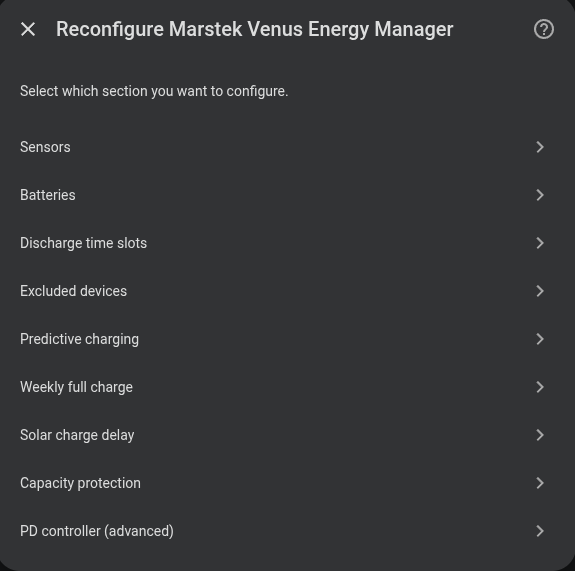
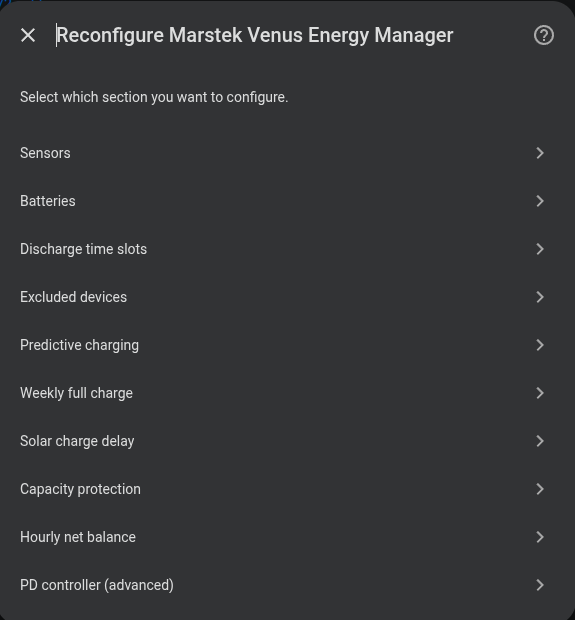
Deployed ad95a9f with MkDocs version: 1.6.1

diff --git a/configuration/advanced/index.html b/configuration/advanced/index.html
@@ -966,6 +966,17 @@
 </li>
       
         <li class="md-nav__item">
+  <a href="#hourly-net-balance" class="md-nav__link">
+    <span class="md-ellipsis">
+      
+        Hourly net balance
+      
+    </span>
+  </a>
+  
+</li>
+      
+        <li class="md-nav__item">
   <a href="#advanced-pd-controller" class="md-nav__link">
     <span class="md-ellipsis">
       
@@ -1536,6 +1547,17 @@
 </li>
       
         <li class="md-nav__item">
+  <a href="#hourly-net-balance" class="md-nav__link">
+    <span class="md-ellipsis">
+      
+        Hourly net balance
+      
+    </span>
+  </a>
+  
+</li>
+      
+        <li class="md-nav__item">
   <a href="#advanced-pd-controller" class="md-nav__link">
     <span class="md-ellipsis">
       
@@ -1572,7 +1594,7 @@
 
 
 <h1 id="advanced-options">Advanced options<a class="headerlink" href="#advanced-options" title="Permanent link">&para;</a></h1>
-<p>After configuring predictive charging, the wizard offers four additional optional steps that adjust the integration's behaviour in specific situations.</p>
+<p>After configuring predictive charging, the wizard offers five additional optional steps that adjust the integration's behaviour in specific situations.</p>
 <hr />
 <h2 id="weekly-full-charge">Weekly full charge<a class="headerlink" href="#weekly-full-charge" title="Permanent link">&para;</a></h2>
 <p>Forces a <strong>100% charge once a week</strong> for cell balancing. You only need to select the day of the week.</p>
@@ -1634,6 +1656,43 @@
 </table>
 <p>See <a href="../../features/peak-shaving/">Peak shaving</a> for how it works.</p>
 <p><img alt="Capacity protection configuration" src="../../assets/screenshots/configuration/advanced-capacity-protection-config.png" style="display: block; margin: 0 auto;" width="650" /></p>
+<hr />
+<h2 id="hourly-net-balance">Hourly net balance<a class="headerlink" href="#hourly-net-balance" title="Permanent link">&para;</a></h2>
+<p>Tracks grid import and export within each civil hour and adjusts the PD setpoint in real time to drive the net energy toward a configurable target. The default target is 0 Wh — net zero each hour — but you can shift it to allow a fixed import or target a fixed export.</p>
+<table>
+<thead>
+<tr>
+<th>Field</th>
+<th>Description</th>
+<th>Default</th>
+</tr>
+</thead>
+<tbody>
+<tr>
+<td><strong>Target net balance (kWh)</strong></td>
+<td>Target net energy balance  (0=net zero, positive=net import, negative=net export)</td>
+<td><code>0 kWh</code></td>
+</tr>
+<tr>
+<td><strong>Maximum offset (W)</strong></td>
+<td>Maximum power offset the controller can apply (sum of all batteries)</td>
+<td><code>1000 W</code></td>
+</tr>
+<tr>
+<td><strong>Net balance tolerance (kWh)</strong></td>
+<td>Tolerance band around target (0=no correction)</td>
+<td><code>0 kWh</code></td>
+</tr>
+<tr>
+<td><strong>Offset hysteresis (W)</strong></td>
+<td>Minimum change in offset before corrections are applied (0=apply every cycle)</td>
+<td><code>15 W</code></td>
+</tr>
+</tbody>
+</table>
+<p>See <a href="../../features/hourly-net-balance/">Hourly net balance</a> for how it works.</p>
+<p><img alt="Hourly net balance warning" src="../../assets/screenshots/configuration/hourly_net_balance_warning.png" style="display: block; margin: 0 auto;" width="650" />
+<img alt="Hourly net balance config" src="../../assets/screenshots/configuration/hourly_net_balance_config.png" style="display: block; margin: 0 auto;" width="650" /></p>
 <hr />
 <h2 id="advanced-pd-controller">Advanced PD controller<a class="headerlink" href="#advanced-pd-controller" title="Permanent link">&para;</a></h2>
 <div class="admonition warning">

diff --git a/configuration/index.html b/configuration/index.html
@@ -1531,18 +1531,33 @@
 <p>The integration is configured entirely from the Home Assistant UI through a multi-step wizard.</p>
 <h2 id="wizard-steps">Wizard steps<a class="headerlink" href="#wizard-steps" title="Permanent link">&para;</a></h2>
 <pre class="mermaid"><code>flowchart TD
-    A[1. Main sensor] --&gt; B[2. Number of batteries]
+    A[1. Main sensor config] --&gt; B[2. Number of batteries]
     B --&gt; C[3. Per-battery config]
     C --&gt; D{Time slots?}
-    D -- Yes --&gt; E[4. Time slots]
+    D -- Yes --&gt; E[4. Time slots config]
     D -- No --&gt; F
     E --&gt; F{Excluded devices?}
-    F -- Yes --&gt; G[5. Excluded devices]
+    F -- Yes --&gt; G[5. Excluded devices config]
     F -- No --&gt; H
     G --&gt; H{Predictive charging?}
-    H -- Yes --&gt; I[6. Predictive charging mode]
-    H -- No --&gt; J[Done]
-    I --&gt; J</code></pre>
+    H -- Yes --&gt; I[6. Predictive charging mode config]
+    H -- No --&gt; J
+    I --&gt; J{Weekly full charge?}
+    J -- Yes --&gt; K[7. Weekly full charge day]
+    J -- No --&gt; L
+    K --&gt; L{Solar charge delay?}
+    L -- Yes --&gt; M[8. Solar charge delay config]
+    L -- No --&gt; N
+    M --&gt; N{Capacity protection?}
+    N -- Yes --&gt; O[9. Capacity protection config]
+    N -- No --&gt; P
+    O --&gt; P{Hourly net balance?}
+    P -- Yes --&gt; Q[10. Hourly net balance config]
+    P -- No --&gt; R
+    Q --&gt; R{PD controller advanced?}
+    R -- Yes --&gt; S[11. PD controller advanced config]
+    R -- No --&gt; T[Done]
+    S --&gt; T</code></pre>
 <table>
 <thead>
 <tr>
@@ -1583,8 +1598,28 @@
 <td style="text-align: center;">❌</td>
 </tr>
 <tr>
-<td><a href="advanced/">Advanced options</a></td>
-<td>Weekly charge, solar delay, peak shaving</td>
+<td><a href="advanced/">Weekly full charge</a></td>
+<td>Charge batteries to 100% once a week to balance the cells</td>
+<td style="text-align: center;">❌</td>
+</tr>
+<tr>
+<td><a href="advanced/">Solar charge delay</a></td>
+<td>Avoid to charge the batteries early if expected solar production will suffice</td>
+<td style="text-align: center;">❌</td>
+</tr>
+<tr>
+<td><a href="advanced/">Capacity protection</a></td>
+<td>Reserves a portion of battery capacity for demand spikes (peak shaving)</td>
+<td style="text-align: center;">❌</td>
+</tr>
+<tr>
+<td><a href="advanced/">Hourly net balance</a></td>
+<td>Sets hourly fixed energy target import/export (default 0 Wh)</td>
+<td style="text-align: center;">❌</td>
+</tr>
+<tr>
+<td><a href="advanced/">PD controller (advanced)</a></td>
+<td>Finetune the PD controller to keep the grid flow to the configured target</td>
 <td style="text-align: center;">❌</td>
 </tr>
 </tbody>